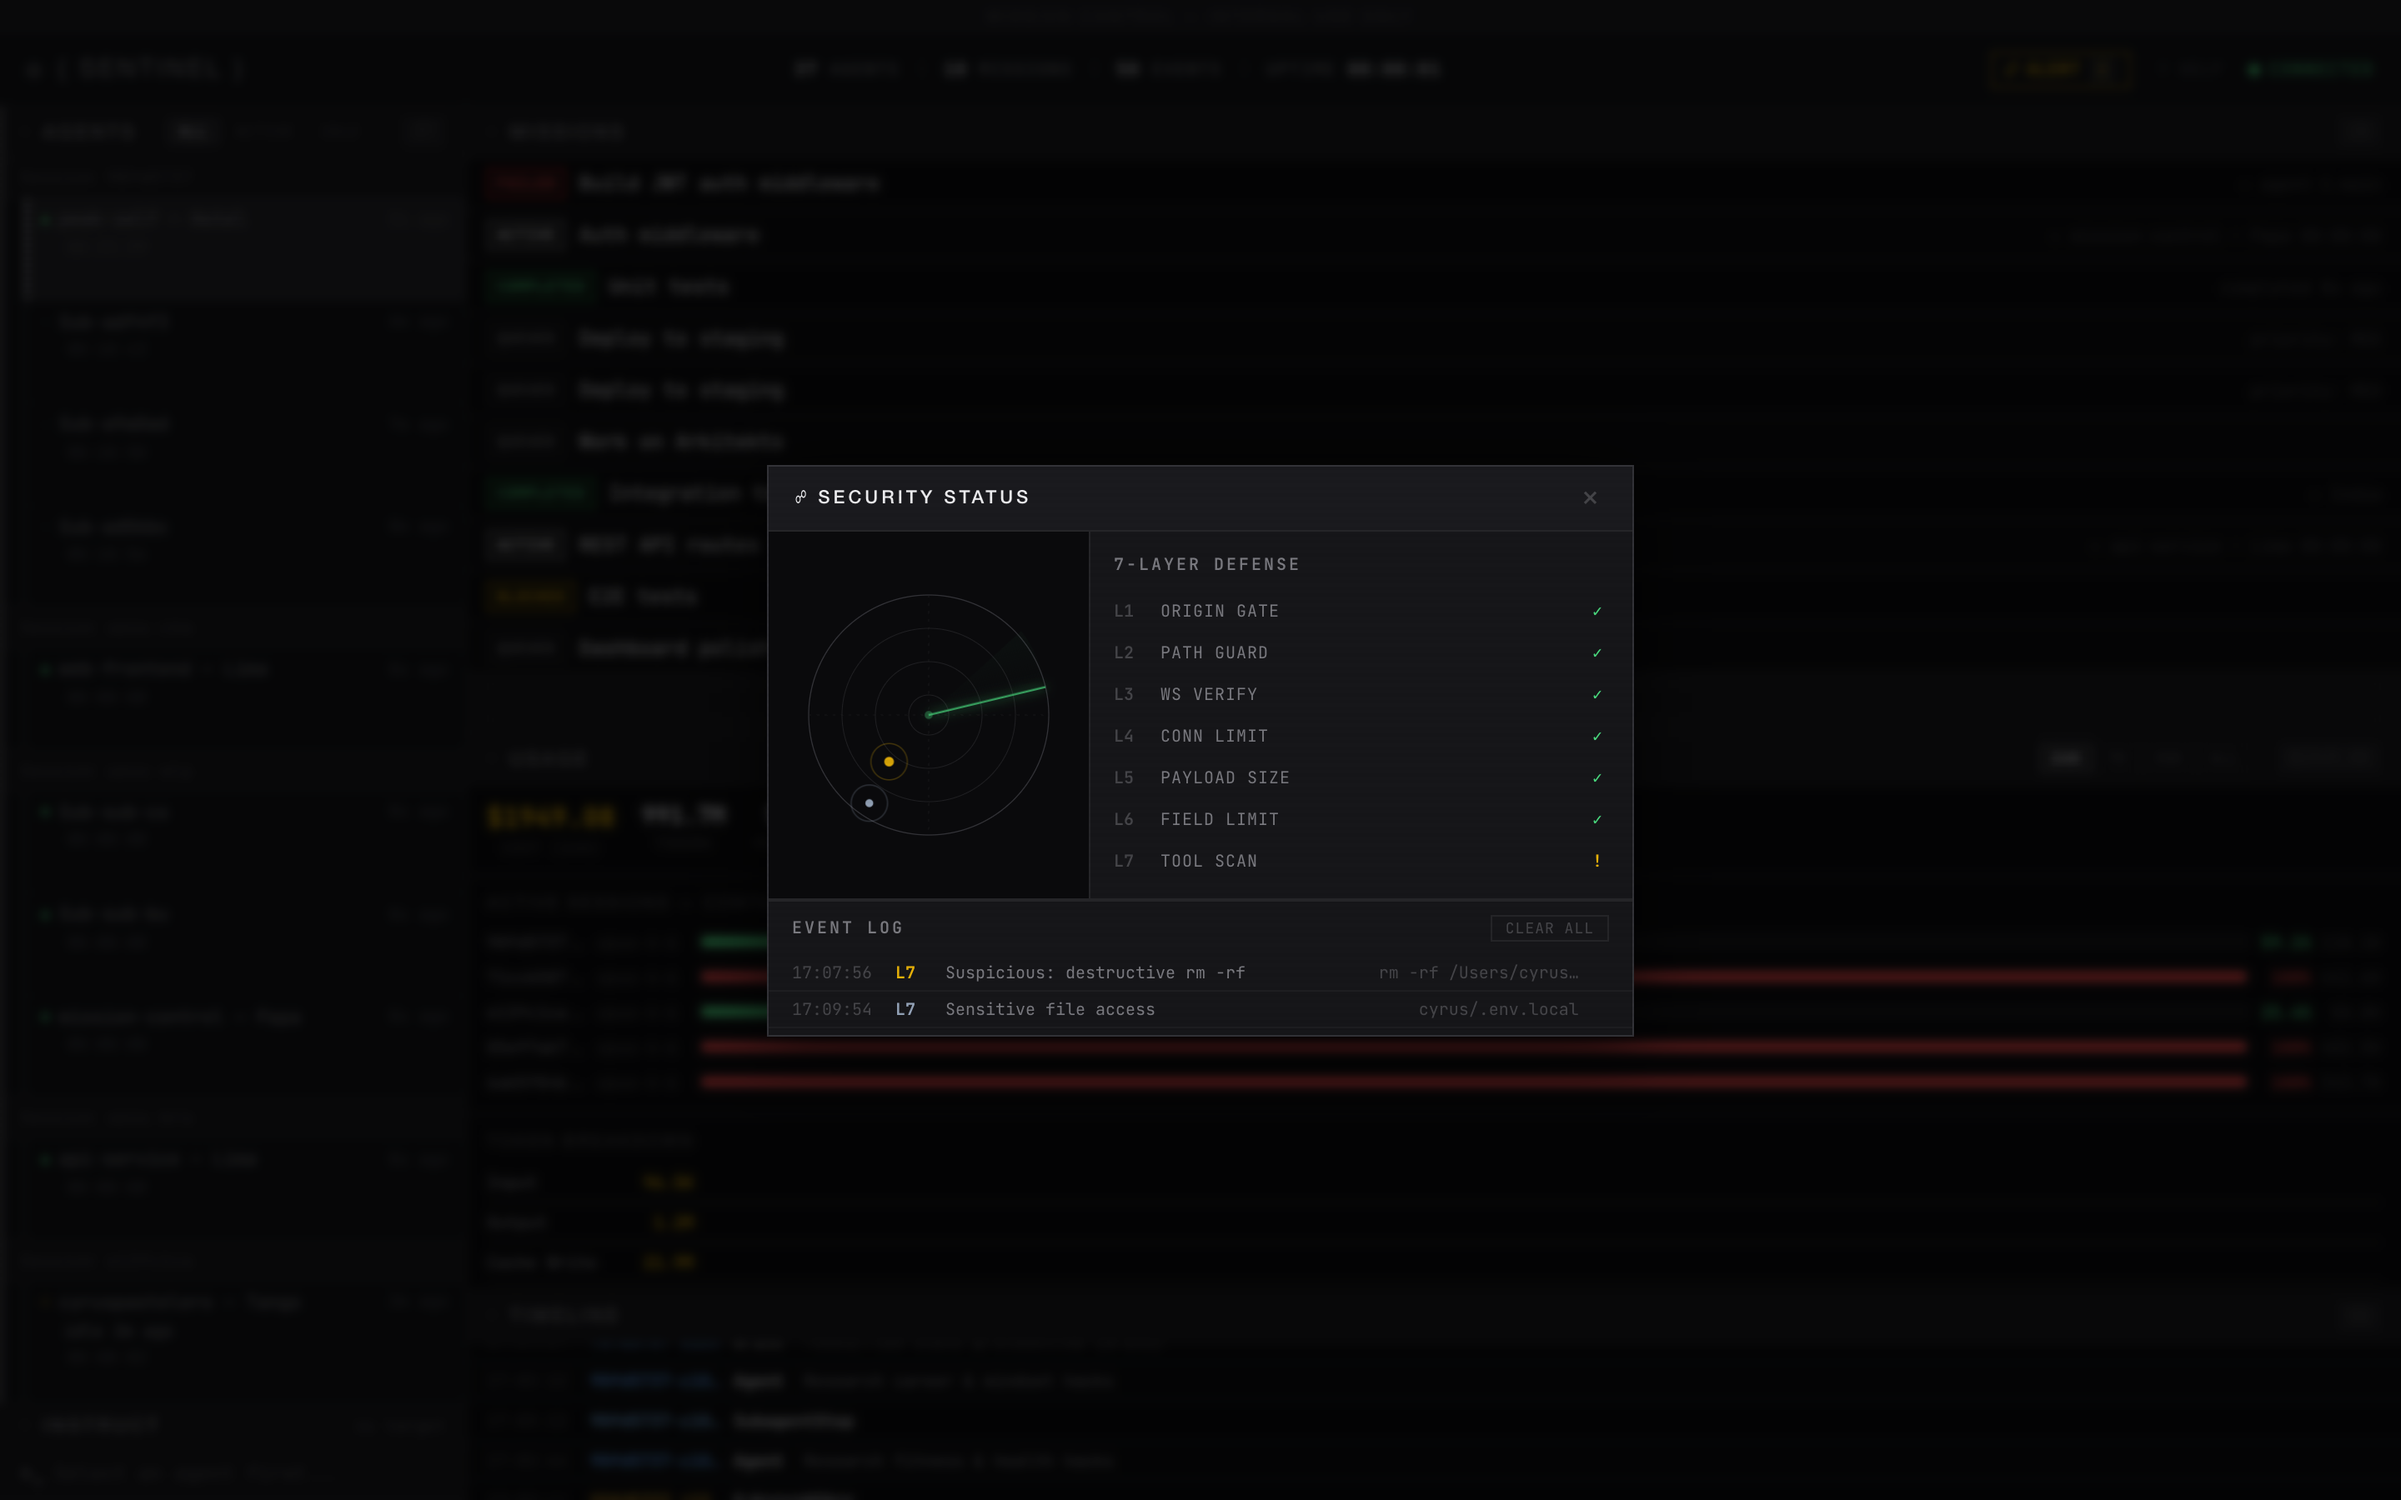
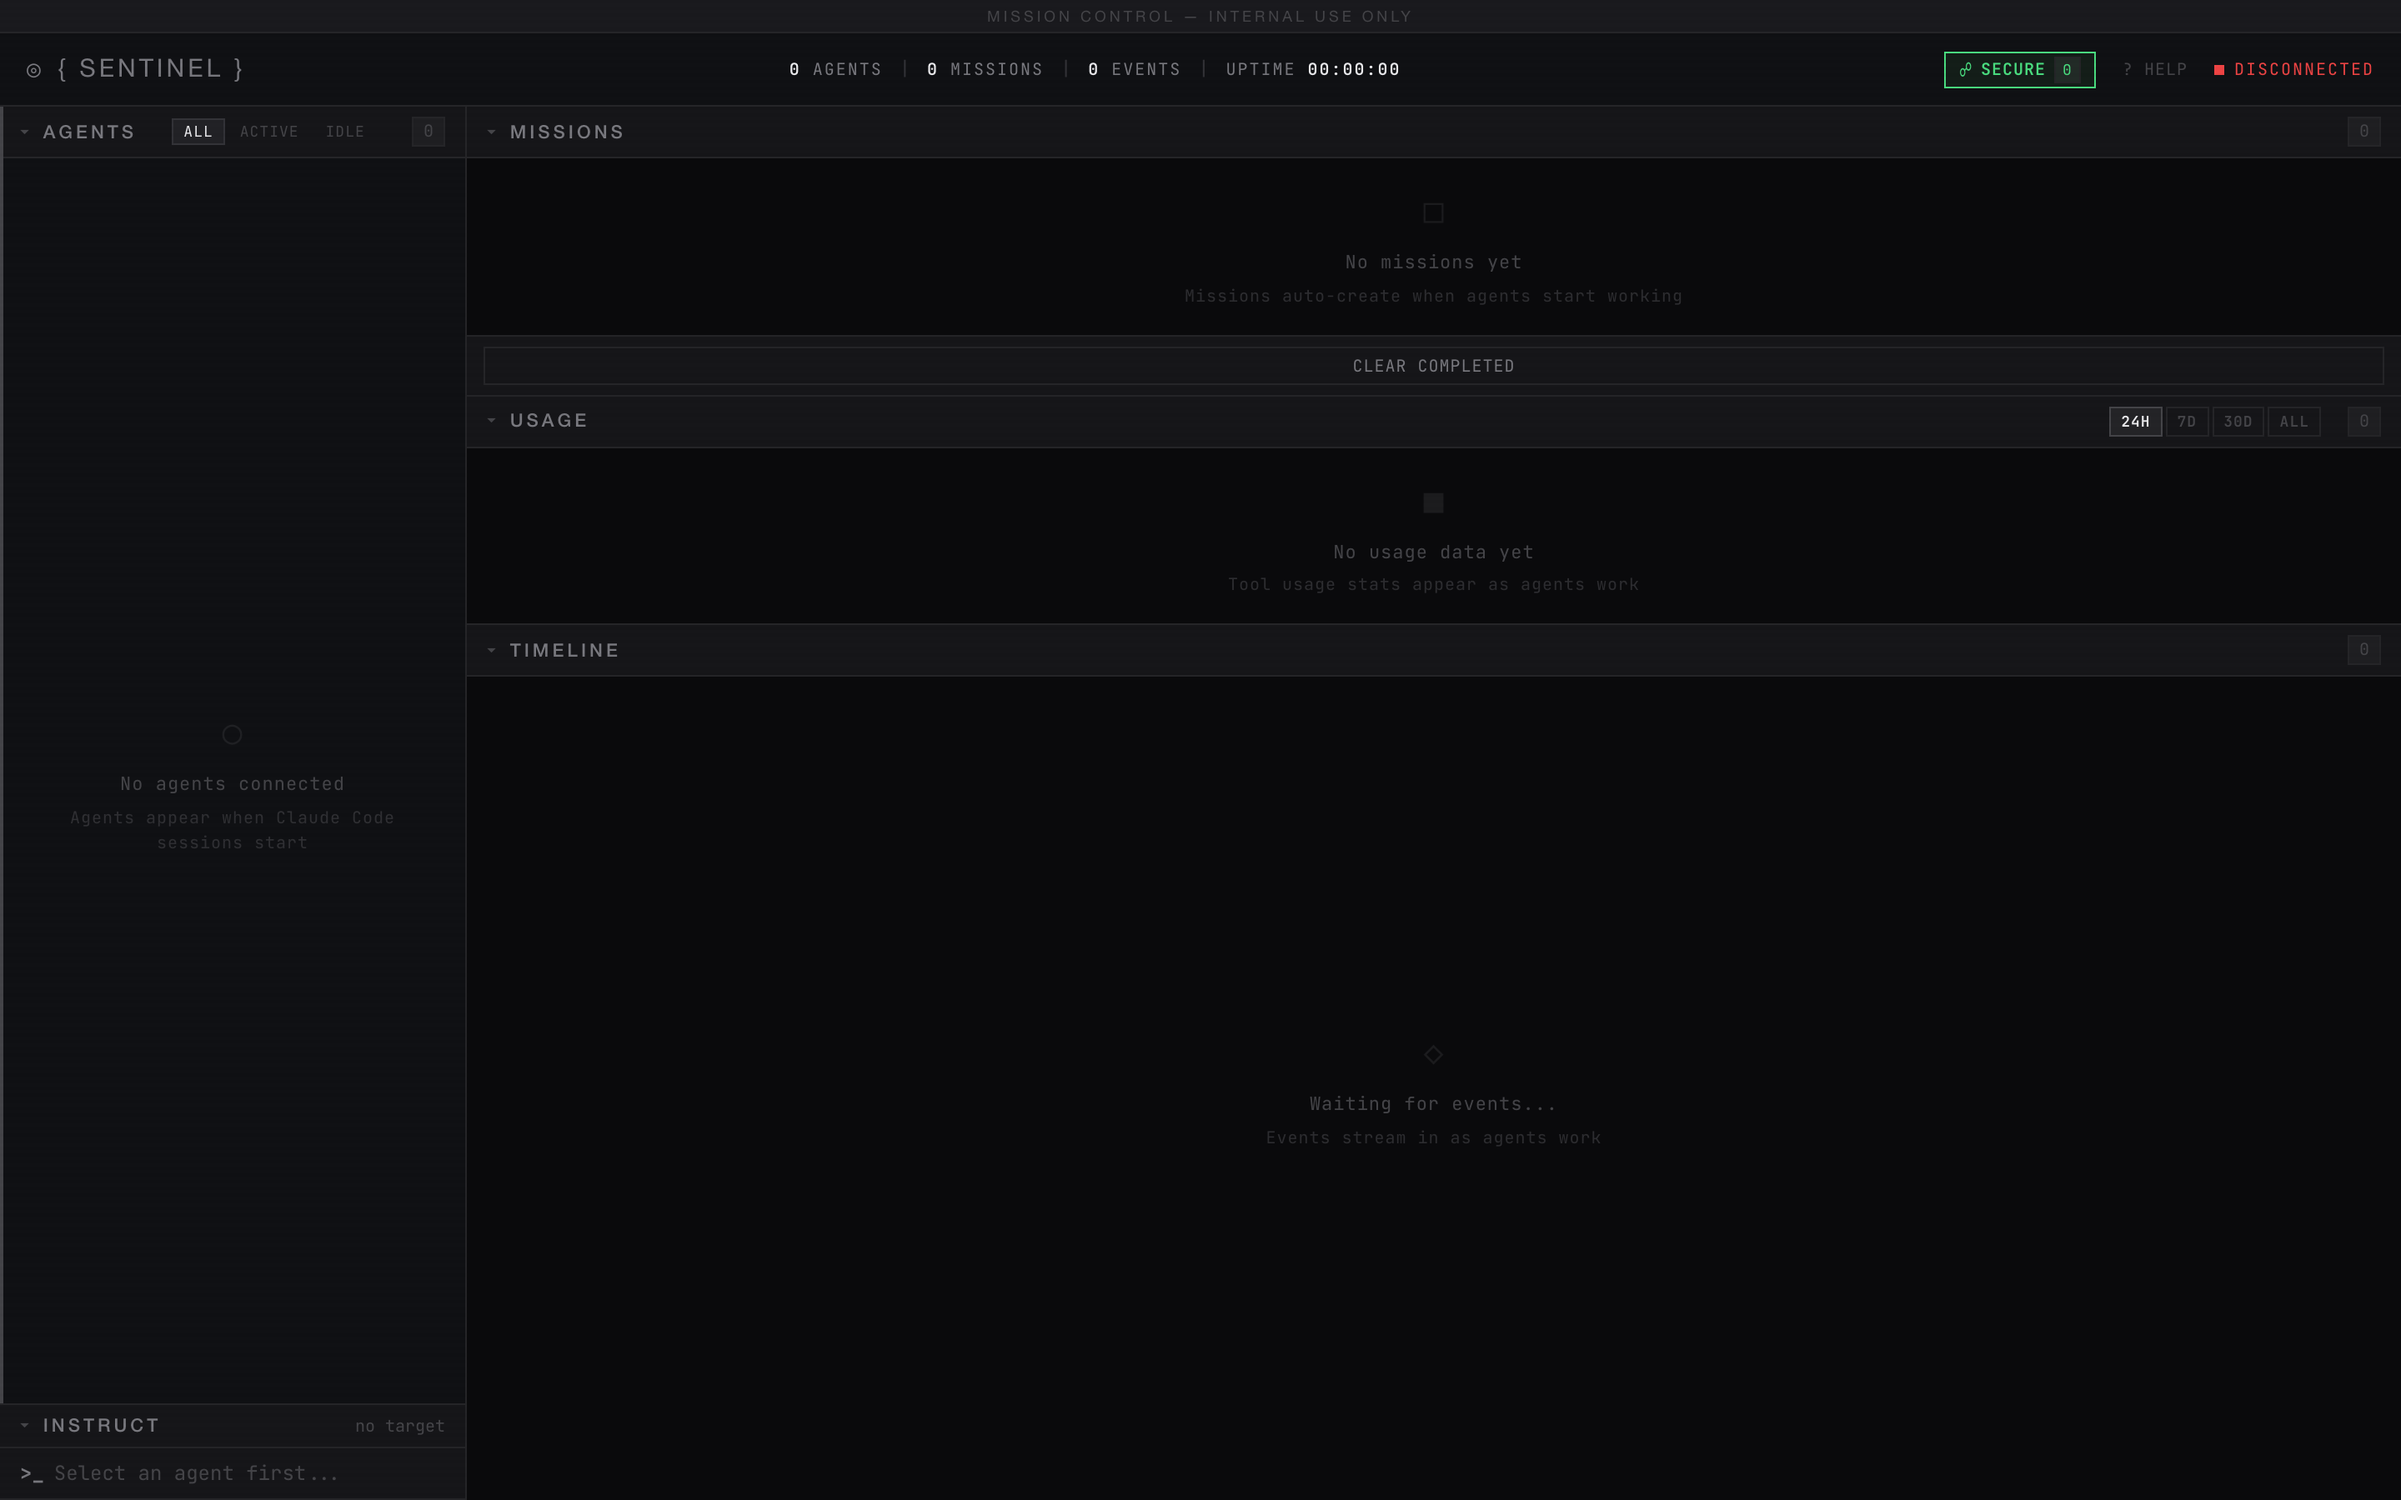
feat: auto-create missions from agent activity
- SubagentStart: mission title from description field
- Main agent first tool call: title from project + file/command
- Stop event: auto-completes the agent's active mission
- Removed manual mission creation UI (no more ADD GOAL form)
- Kept CLEAR COMPLETED button and per-mission DELETE
- Updated README: missions are auto-populated, not manual
- Fresh screenshots with auto-created missions

diff --git a/src/api/events.ts b/src/api/events.ts
@@ -1,8 +1,118 @@
 import type { IncomingMessage, ServerResponse } from 'node:http';
-import { insertEvent, getEvents } from '../db.js';
+import crypto from 'node:crypto';
+import { insertEvent, getEvents, getMissions, updateMission } from '../db.js';
 import { agentTracker } from '../services/agent-tracker.js';
+import { createMission as engineCreateMission, MissionEngineError } from '../services/mission-engine.js';
 import { eventBus } from '../services/event-bus.js';
 import { parseBody, sendJson, parseQuery, truncateField } from './utils.js';
+
+// Track which agents already have auto-created missions (avoid duplicates per session)
+const agentMissionCreated = new Set<string>();
+
+/**
+ * Auto-create a mission from agent activity.
+ * - SubagentStart: uses the description field
+ * - Main agent first tool call: derives from cwd + tool
+ * - Stop: marks the agent's mission as completed
+ */
+function autoMission(
+  compositeId: string,
+  eventType: string,
+  toolName: string | null,
+  toolInput: unknown,
+  cwd: string | null,
+): void {
+  try {
+    // On Stop: complete any active mission for this agent
+    if (eventType === 'stop') {
+      const missions = getMissions();
+      for (const m of missions) {
+        if (m.assigned_agent_id === compositeId && m.status === 'active') {
+          updateMission(m.id, { status: 'completed', completed_at: new Date().toISOString() });
+          eventBus.emit('mission:update', { ...m, status: 'completed', completed_at: new Date().toISOString() });
+        }
+      }
+      agentMissionCreated.delete(compositeId);
+      return;
+    }
+
+    // Don't create duplicate missions for the same agent
+    if (agentMissionCreated.has(compositeId)) return;
+
+    let title: string | null = null;
+
+    // SubagentStart: use description
+    if (eventType === 'subagent_start') {
+      let input: Record<string, unknown> = {};
+      if (typeof toolInput === 'string') {
+        try { input = JSON.parse(toolInput) as Record<string, unknown>; } catch {}
+      } else if (toolInput && typeof toolInput === 'object') {
+        input = toolInput as Record<string, unknown>;
+      }
+      if (typeof input.description === 'string' && input.description.length > 0) {
+        title = input.description;
+      } else if (typeof input.prompt === 'string') {
+        title = input.prompt.length > 60 ? input.prompt.slice(0, 57) + '...' : input.prompt;
+      }
+    }
+
+    // Main agent first tool call: derive from project + action
+    if (!title && toolName) {
+      const project = cwd ? cwd.split('/').filter(Boolean).pop() : null;
+      let detail = '';
+      let input: Record<string, unknown> = {};
+      if (typeof toolInput === 'string') {
+        try { input = JSON.parse(toolInput) as Record<string, unknown>; } catch {}
+      } else if (toolInput && typeof toolInput === 'object') {
+        input = toolInput as Record<string, unknown>;
+      }
+
+      if (typeof input.file_path === 'string') {
+        detail = input.file_path.split('/').pop() ?? '';
+      } else if (typeof input.command === 'string') {
+        detail = input.command.length > 40 ? input.command.slice(0, 37) + '...' : input.command;
+      } else if (typeof input.pattern === 'string') {
+        detail = 'searching ' + input.pattern;
+      }
+
+      if (project) {
+        title = project + (detail ? ' — ' + detail : '');
+      } else if (detail) {
+        title = toolName + ' ' + detail;
+      }
+    }
+
+    if (!title) return;
+
+    agentMissionCreated.add(compositeId);
+
+    const mission = engineCreateMission({
+      id: crypto.randomUUID(),
+      title,
+      description: null,
+      priority: 0,
+    });
+
+    // Assign the agent and mark active
+    updateMission(mission.id, {
+      assigned_agent_id: compositeId,
+      status: 'active',
+      started_at: new Date().toISOString(),
+    });
+
+    eventBus.emit('mission:update', {
+      ...mission,
+      assigned_agent_id: compositeId,
+      status: 'active',
+      started_at: new Date().toISOString(),
+    });
+  } catch (err) {
+    // Never let auto-mission creation break event processing
+    if (!(err instanceof MissionEngineError)) {
+      console.error('[auto-mission] Error:', err);
+    }
+  }
+}
 
 /**
  * Handle requests to /api/events
@@ -83,6 +193,15 @@ async function handlePostEvent(
 
   // Broadcast to WebSocket clients via event bus
   eventBus.emit('event:new', inserted);
+
+  // Auto-create mission from agent activity
+  autoMission(
+    compositeId,
+    event_type as string,
+    (tool_name as string) ?? null,
+    tool_input,
+    (cwd as string) ?? null,
+  );
 
   sendJson(res, 201, { id: inserted.id, agent_id: compositeId });
 }

diff --git a/src/dashboard/index.html b/src/dashboard/index.html
@@ -88,28 +88,18 @@
     <div id="right-col">
       <section id="missions-panel" class="panel" data-panel="missions">
         <div class="panel-header">
-          <span class="panel-title"><span class="panel-chevron">&#9656;</span> GOALS</span>
+          <span class="panel-title"><span class="panel-chevron">&#9656;</span> MISSIONS</span>
           <span class="panel-badge" id="missions-badge">0</span>
         </div>
         <div class="panel-body" id="missions-list">
           <div class="empty-state">
             <div class="empty-icon">&#9633;</div>
-            <div>No goals yet</div>
-            <div class="empty-hint">Press <kbd>n</kbd> to add a goal</div>
+            <div>No missions yet</div>
+            <div class="empty-hint">Missions auto-create when agents start working</div>
           </div>
         </div>
         <div class="panel-footer" id="mission-create-bar">
-          <div id="mission-inline-form" class="hidden">
-            <input type="text" id="mission-title-input" placeholder="Mission title..." class="inline-input">
-            <div class="inline-form-actions">
-              <button id="mission-create-btn" class="btn-submit">CREATE</button>
-              <button id="mission-cancel-btn" class="btn-cancel">ESC</button>
-            </div>
-          </div>
-          <div class="mission-footer-row">
-            <button id="new-mission-btn" class="btn-action" style="flex:1">+ ADD GOAL <kbd>n</kbd></button>
-            <button id="clear-done-missions" class="btn-action danger-text" style="flex-shrink:0">CLEAR DONE</button>
-          </div>
+          <button id="clear-done-missions" class="btn-action danger-text" style="width:100%">CLEAR COMPLETED</button>
         </div>
       </section>
 

diff --git a/README.md b/README.md
@@ -200,13 +200,20 @@ Each agent row shows rich, at-a-glance status:
 
 ### Mission Board
 
+Missions are **auto-created** from agent activity — you don't need to set them up manually.
+
+| Source | How It Creates a Mission |
+|--------|------------------------|
+| **Subagent spawn** | Uses the `description` from the Agent tool (e.g. "Fix build errors", "Code review") |
+| **Main agent first tool call** | Derives from project folder + first action (e.g. "mission-control — server.ts") |
+| **Session end (Stop)** | Auto-completes the agent's active mission |
+
 | Feature | Description |
 |---------|-------------|
-| **Create missions** | Title, description, priority. Assign to agents. Keyboard shortcut: `n` |
-| **Status tracking** | Queued → Active → Completed/Failed with colored status tags |
-| **Dependency DAG** | Missions can depend on other missions. Blocked missions auto-unblock when deps complete. Cycle detection prevents loops |
-| **Subtask progress** | Missions support a `subtasks` JSON array of `{id, title, done}` items. Dashboard renders a green progress bar with X/Y count |
-| **Send instructions** | Select an agent, type a message → delivered via stderr on next tool call |
+| **Auto-populated** | Missions appear as agents start working — no manual creation needed |
+| **Live status** | Active (agent working) → Completed (session ended) with timestamps |
+| **Click to expand** | Shows description and action buttons (DONE, DELETE) |
+| **CLEAR COMPLETED** | Bulk-remove finished missions to keep the board clean |
 
 ### Sending Instructions to Agents
 
@@ -374,14 +381,14 @@ Hover any agent row to reveal action buttons:
 
 ### Mission Management
 
-Click any mission row to expand it and see context-sensitive action buttons:
+Missions auto-create from agent activity. Click any mission to expand and manage:
 
-| Mission Status | Available Actions |
-|---------------|-------------------|
-| **Queued** | Assign to agent (dropdown), Start, Delete |
-| **Active** | Complete, Fail |
-| **Blocked** | Force Unblock |
-| **Completed / Failed** | Requeue |
+| Action | Description |
+|--------|-------------|
+| **DONE** | Mark a mission as completed |
+| **REOPEN** | Move a completed mission back to open |
+| **DELETE** | Remove a mission |
+| **CLEAR COMPLETED** | Bulk-remove all finished missions |
 
 ---
 
